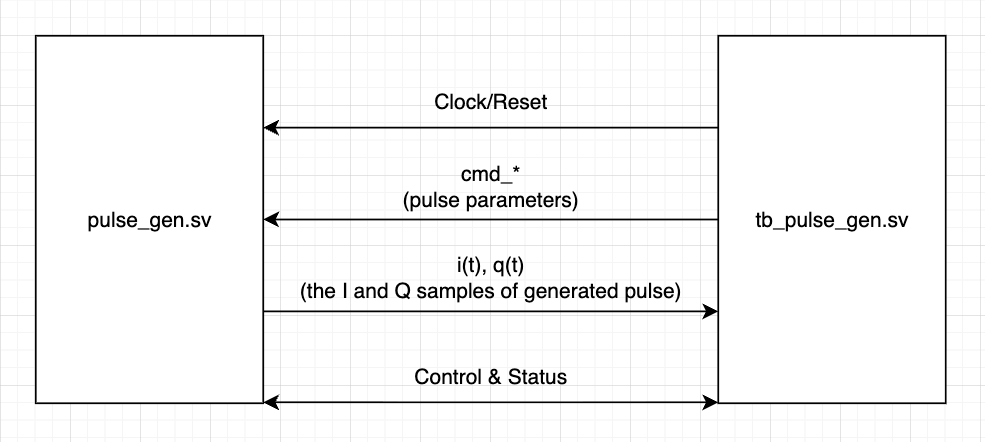
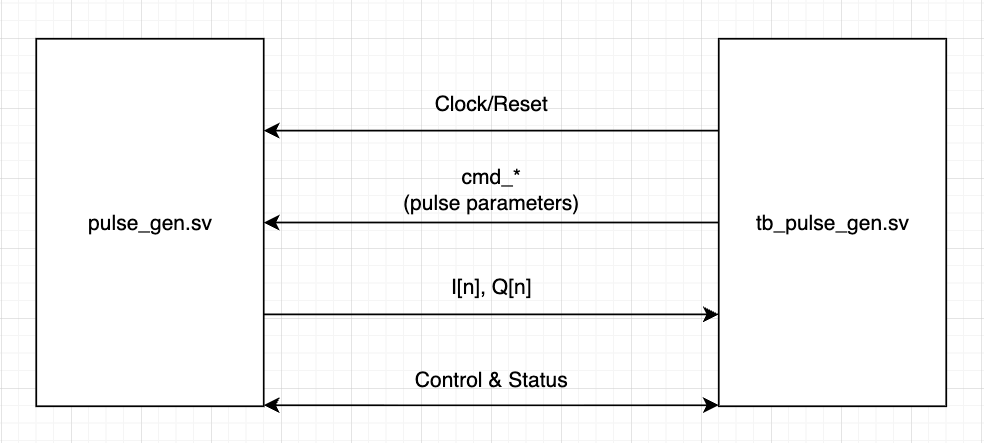
update post

diff --git a/_posts/2026-01-03-quantum-control-rtl.md b/_posts/2026-01-03-quantum-control-rtl.md
@@ -19,7 +19,7 @@ This is how FPGA comes into play. Wanting to get hands-on, and curious about whe
 1. A simple TX controller for JESD204B.
 2. A simple pulse generator for DRAG and Wah-Wah.
 
-## Open source RTL tools
+## Open source EDA tools
 
 Previously at school and at work, I was used to [VCS](https://www.synopsys.com/verification/simulation/vcs.html){:target="_blank"} and [ModelSim](https://en.wikipedia.org/wiki/ModelSim){:target="_blank"}. For these exercises, I use open source tools:
 
@@ -120,7 +120,7 @@ DRAG pulse is designed to suppress internal leakage: the target qubit state drif
 
 The DRAG (*Derivative Removal by Adiabatic Gate*) technique was proposed by Motzoi et. al. in 2009 in this [paper](https://arxiv.org/pdf/0901.0534){:target="_blank"}. Limiting to a three-level system $$\{\ket{0}, \ket{1}, \ket{2}\}$$, and denoting the in-phase and quadrature components as $$I(t)$$ and $$Q(t)$$ respectively, they found that setting $$Q(t) \propto \frac{dI(t)}{dt}$$ can suppress leakage to $$\ket{2}$$ to the first order of the pulse amplitude. Higher-order leakage suppression is possible but we limit this exercise to first-order DRAG.
 
-Using Gaussian as $$I(t)$$, we have:
+In discrete time, using Gaussian for $$I[n]$$, we have:
 
 $$
 I[n] = A \cdot G[n]
@@ -155,9 +155,9 @@ The Wah-Wah (*Weak AnHarmonicity With Average Hamiltonian*) technique was propos
 
 <img src="/assets/2026-01-04/rtl-pulse-wah-wah.png" style="display:block;margin:0 auto;width:60%;"/>
 
-They found that by modulating the original $$I(t)$$ (e.g. a Gaussian envelope) with a $$[1 - A_m \cos{\omega_m (n-\mu)}]$$ term, $$\mu$$ being the same as that used in the Gaussian term, and $$Q(t)$$ follows the DRAG technique, external leakage can be suppressed.
+They found that by modulating the original $$I(t)$$ (e.g. a Gaussian envelope) with a $$[1 - A_m \cos{\omega_m (t-\mu)}]$$ term, $$\mu$$ being the same as that used in the Gaussian term, and $$Q(t)$$ follows the DRAG technique, external leakage can be suppressed.
 
-So we have:
+So we have in discrete time:
 
 $$
 I[n] = A \cdot E[n]
@@ -190,22 +190,22 @@ in which $$\beta$$, $$A_m$$, $$\omega_m$$ are tunable parameters for Wah-Wah.
 
 TB sets the pulse parameters and trigger pulse generation by asserting `start`.
 
-The pulse generator module generates I and Q samples in a continuous stream, asserts `busy` when generating samples, and asserts `out_last` when the last sample of the current pulse is at the output.
+The pulse generator module generates $$I[n]$$ and $$Q[n]$$ samples in a continuous stream, asserts `busy` when generating samples, and asserts `out_last` when the last sample of the current pulse is at the output.
 
 The pulse generator would refuse to generate samples if the pulse parameters are erroneous: pulse sample length must be at least 2, `mu` (Gaussian mean) must not be smaller than the sample length, the sigma square inverse term must not be zero, and Wah-Wah frequency term must not be zero when Wah-Wah is turned on.
 
 TB collects the generated samples and checks them against golden values, calculated using SystemVerilog's system functions `$exp()` and `$cos()`. TB also checks if DUT refuses to generate under erroneous pulse parameters.
 
-Finally, TB exports all DUT-agenerated samples into a single JSON file. A script `plot_pulses.py` visualizes those samples.
+Finally, TB exports all DUT-generated samples into a single JSON file. A script `plot_pulses.py` visualizes those samples.
 
 ### Design
 
 The following numerical methods and formats are used:
 
 - For the Gaussian envelope, $$\exp(-x)$$ is computed with a lookup table (LUT) with 11-bit address. All arithmetic for the Gaussian datapath is performed in UQ0.15 format (unsigned, 16 bits wide, with 15 fractional bits).
-- The Wah-Wah cosine term $$\cos(\omega_m (n-\mu))$$ is also produced by a LUT with 11-bit address. The cosine datapath accepts the modulation frequency in UQ0.16 (unsigned, 16 bits, 16 fractional) and outputs in SQ1.15 format (signed, 16 bits, 1 integer + 15 fractional). The Wah-Wah modulation amplitude $$A_m$$ uses SQ0.15 format (signed, 16 bits, 15 fractional).
-- The Q(t) samples of DRAG is computed with a symmetric first-order finite difference: $$D[n] = (E[n+1] - E[n-1])/2$$, where E[n] is the envelope term of the I(t) component. Forward/backward differences are used for samples at the boundaries. All envelope and difference values are kept in UQ1.15 (unsigned, 16 bits, 1 integer + 15 fractional) or a signed extension (e.g., Q2.15 for differences).
-- All LUT outputs are interpolated linearly between adjacent address entries to improve accuracy at the input's fractional address.
+- The Wah-Wah cosine term $$\cos(\omega_m (n-\mu))$$ is also produced by a LUT with 11-bit address. The cosine datapath takes the modulation frequency $$\omega_m$$ in UQ0.16 (unsigned, 16 bits, 16 fractional) and generates cosine values in SQ1.15 format (signed, 16 bits, 1 integer + 15 fractional). The Wah-Wah modulation amplitude $$A_m$$ uses SQ0.15 format (signed, 16 bits, 15 fractional).
+- The $$Q[n]$$ samples are computed with a symmetric first-order finite difference: $$D[n] = (E[n+1] - E[n-1])/2$$, where $$E[n]$$ is the envelope term of the $$I[n]$$ component. Forward/backward differences are used for samples at the boundaries. All envelope and difference values are kept in UQ1.15 (unsigned, 16 bits, 1 integer + 15 fractional) or a signed extension (e.g., Q2.15 for differences).
+- All LUT outputs are produced from linear interpolation between adjacent address entries to improve accuracy at the input's fractional address.
 
 ### CLI commands
 
@@ -251,7 +251,7 @@ PASS: All tests completed (protocol + invalid + DRAG math).
 - Verilator: cpu 0.037 s on 1 threads; alloced 0 MB
 ```
 
-TB validates all I samples are within 1 LSB error tolerance, and all Q samples are within 2 LSB error tolerance.
+TB validates all $$I[n]$$ samples are within 1 LSB error tolerance, and all $$Q[n]$$ samples are within 2 LSB error tolerance.
 
 ### Plots
 
